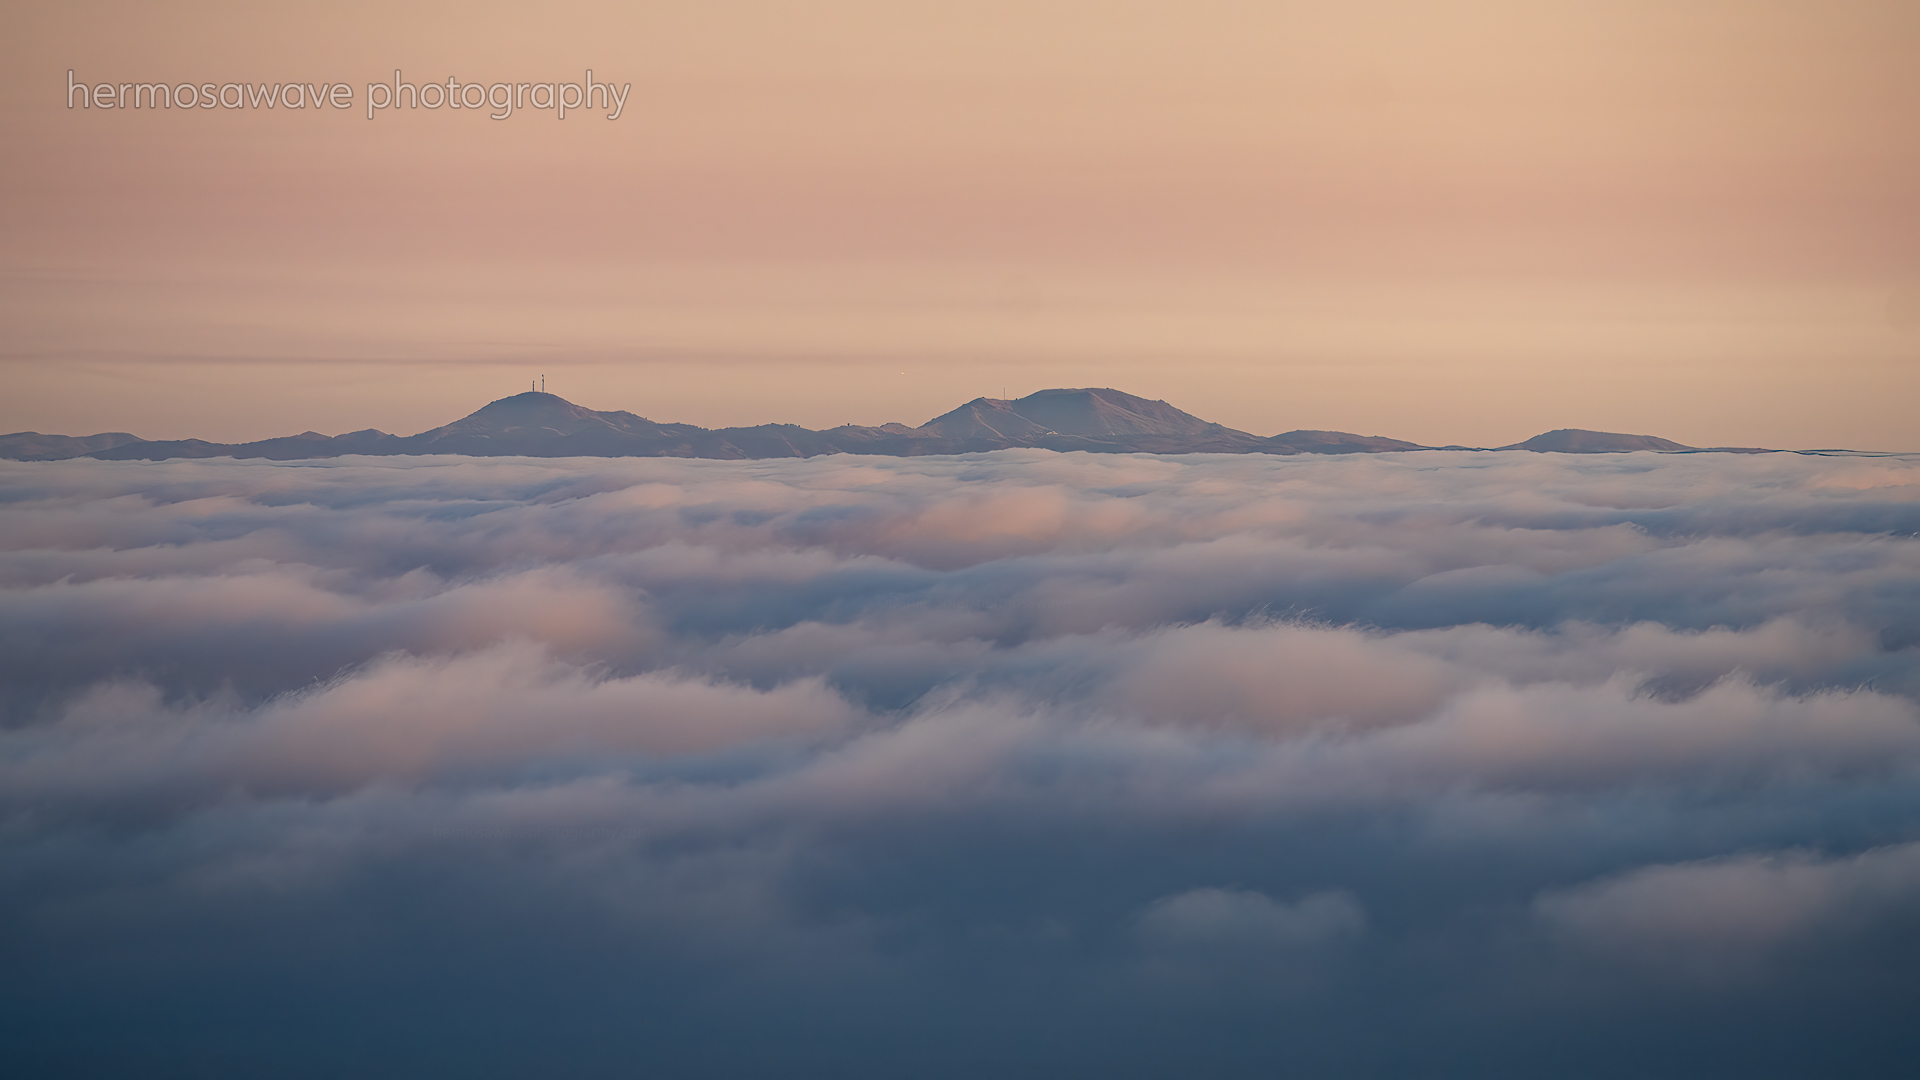
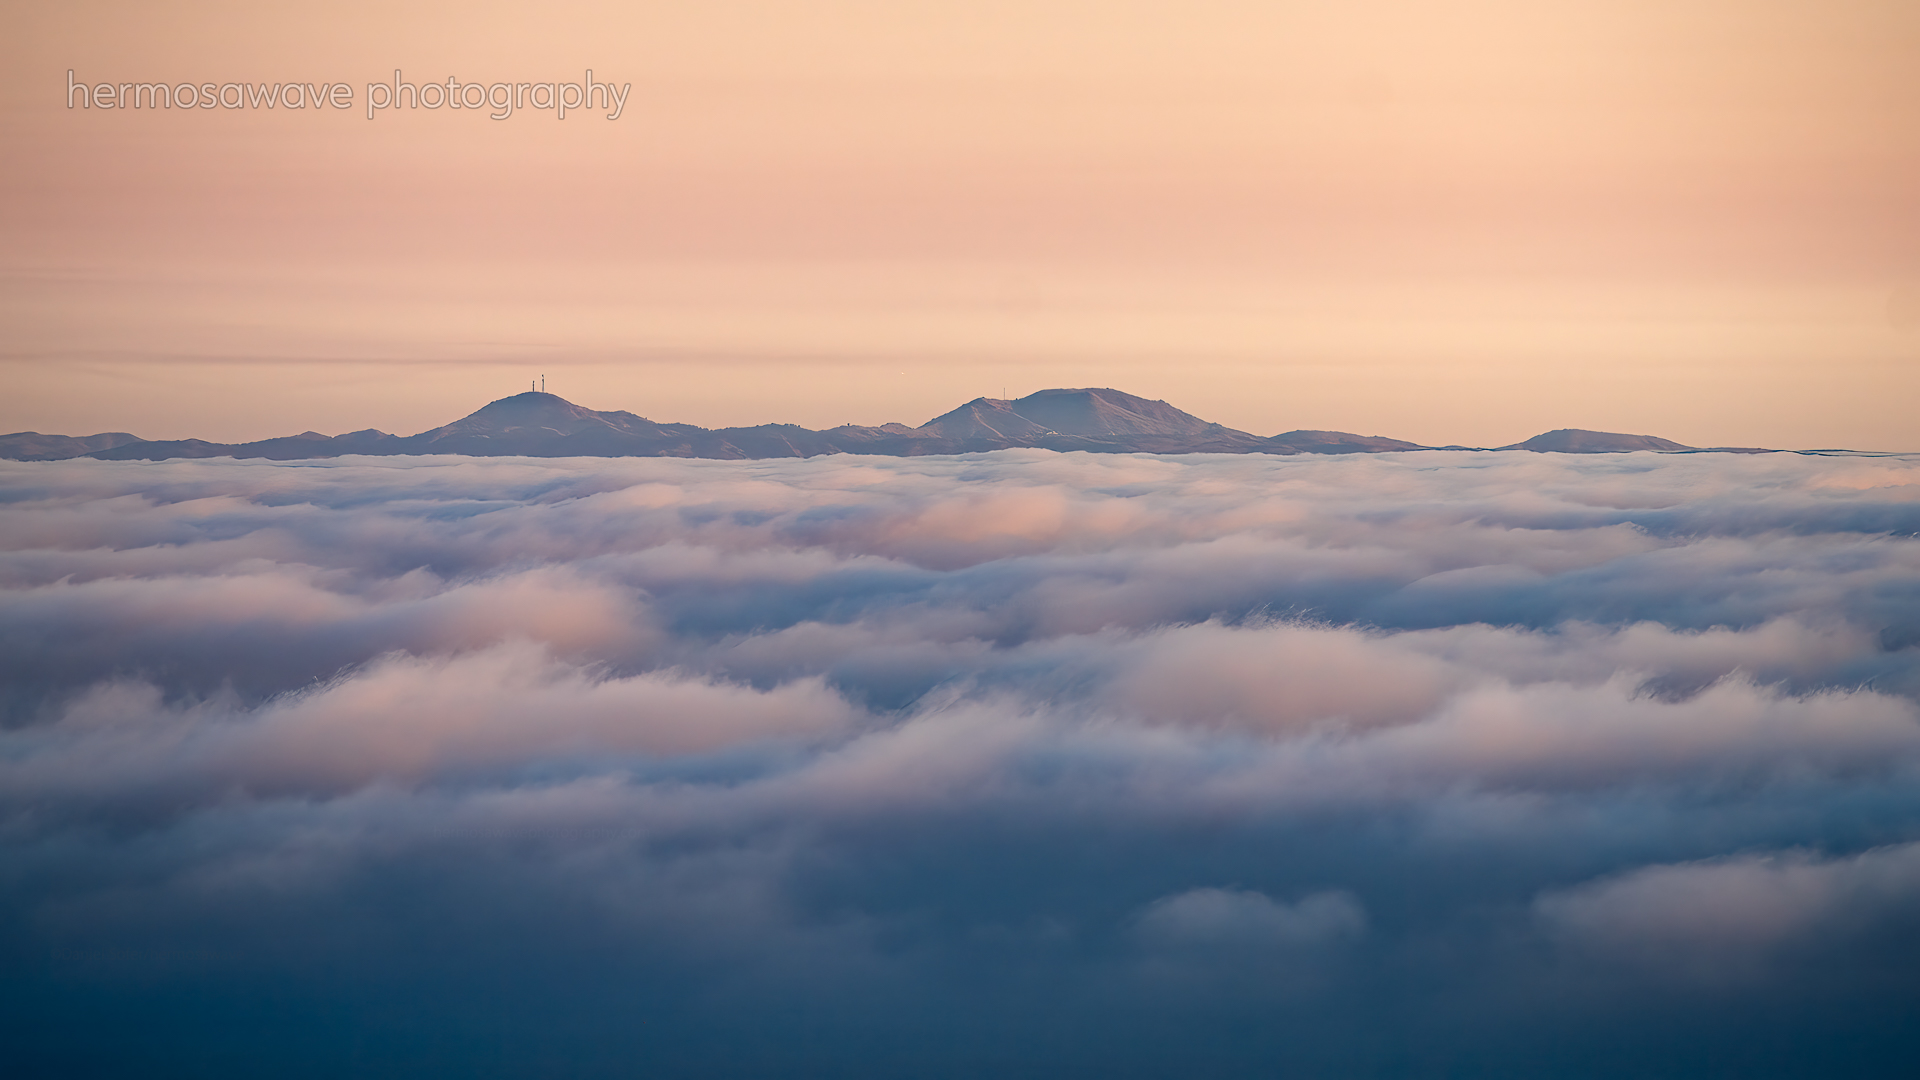
Brighter photo

diff --git a/250810/index.html b/250810/index.html
@@ -238,7 +238,7 @@ More GPS info: https://gis.stackexchange.com/questions/136925/how-to-parse-exif-
       <div id="tagsection"> 
          <p class="tags"> PictureCode: 250810 <br/>
          Location: Palos Verdes<br/>
-      Keywords: Golden Hour, Islands, Fog</p> 
+      Keywords: Golden Hour, Fog</p> 
          </div>
          
        <p class="en">

diff --git a/subjects/index.html b/subjects/index.html
@@ -8561,15 +8561,6 @@ font-family: ryo-gothic-plusn, sans-serif; (200, 400, 700)
 	</div>
 
 <div class="thumbnail tag">
-	<h3>Islands</h3>
-  <ul>
-	
-	  <li><a href="/250810/">Catalina in the Clouds</a></li>
-	
-  </ul>
-	</div>
-
-<div class="thumbnail tag">
 	<h3>Kamo River</h3>
   <ul>
 	
